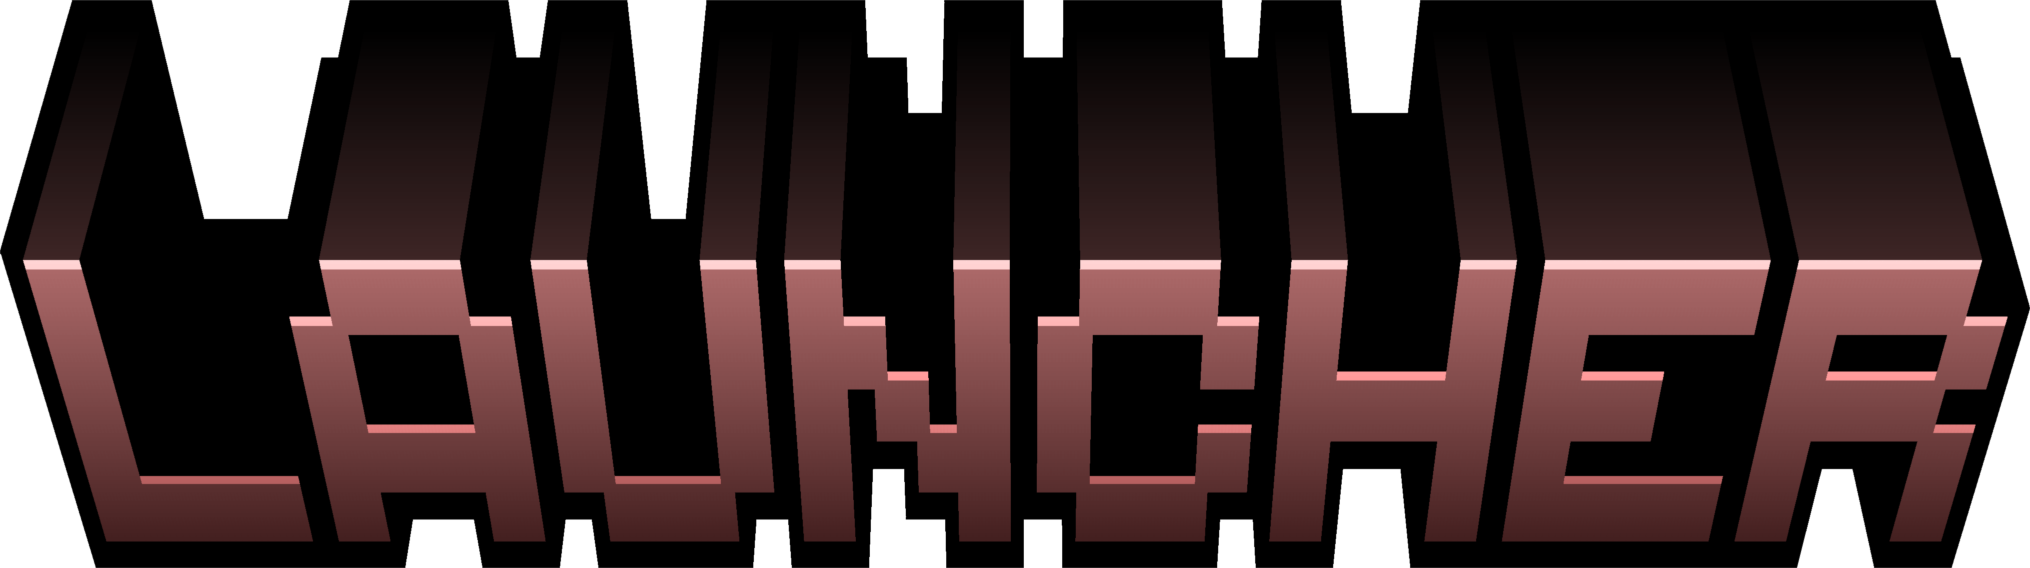
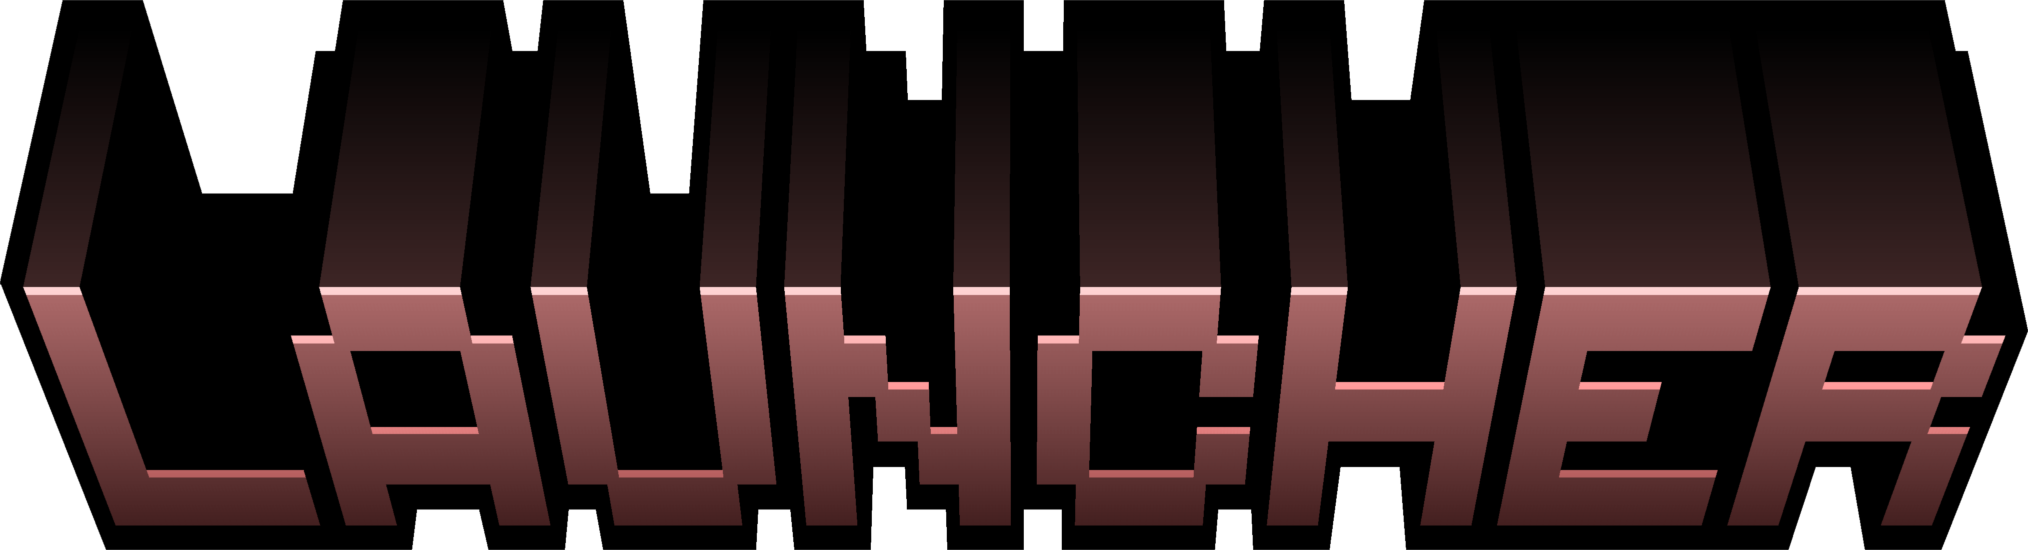
Use the re-rendered LAUNCHER with the corrected angle
Claude-Session: https://claude.ai/code/session_01Rorz7EVw6S2mDVkWpgZFvW

diff --git a/design/README.md b/design/README.md
@@ -72,10 +72,10 @@ stay sharp. A change to a master means rendering those files again.
 ## `wordmark/`
 
 The Kapital Launcher wordmark's two words as separate pictures, rendered from
-the logo's model: `kapital.png` (2048 × 335) and `launcher.png` (2030 × 568).
+the logo's model: `kapital.png` (2048 × 335) and `launcher.png` (2028 × 550).
 LAUNCHER's depth runs up behind KAPITAL, so it is drawn first. Laid over the
 800 × 219 `frontend/src/assets/brand/kapital-launcher-logo-compact.png`,
-KAPITAL is 800 wide at 0, 0 and LAUNCHER 580 wide at 110, 59.
+KAPITAL is 800 wide at 0, 0 and LAUNCHER 580 wide at 110, 65.
 
 Nothing in the app reads them yet.
 
